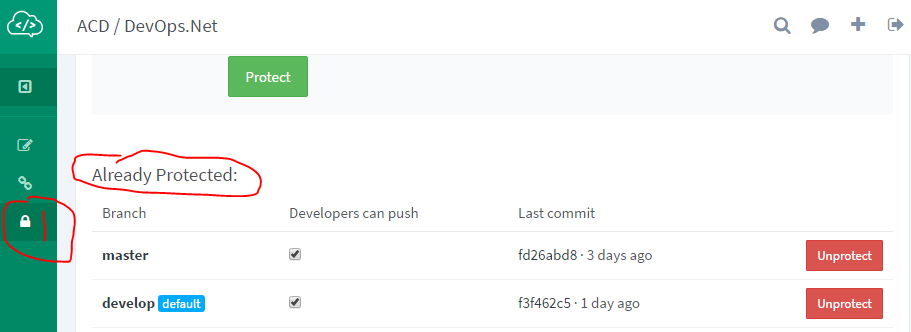
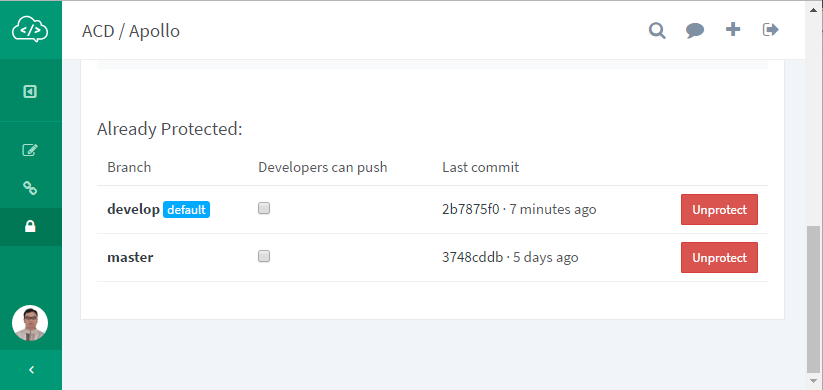
feat: update about gitlab post

diff --git a/_posts/2017-02-19-git-flow-gitlab.md b/_posts/2017-02-19-git-flow-gitlab.md
@@ -141,14 +141,72 @@ Footer 部分只用于两种情况:
 
 # 使用GitLab进行团队内Code Review
 
-Code Review的工具很多，Facebook非常有名的Phabricator已经开源。对于经常玩GitHub的人，应该很喜欢GitHub的PR功能，很多公司使用GitLab或者Gogs搭建自家的Git服务，GitLab的Merge Request功能同样可以用于团队内Code Review。如果团队内部需要强制进行Code Review, 那么拥有GitLab管理权限的开发人员，可以把Repo设置成只有develop和master分支，并把develop，master分支都保护起来。
+Code Review的工具很多，Facebook非常有名的Phabricator已经开源。对于经常玩GitHub的人，应该很喜欢GitHub的PR功能，很多公司使用GitLab或者Gogs搭建自家的Git服务，GitLab的Merge Request功能同样可以用于团队内Code Review。
+
+## Branches Protection Setting
+
+如果团队内部需要强制进行Code Review, 那么拥有GitLab管理权限的开发人员，可以把Repo设置成只有develop和master分支，并把develop，master分支都保护起来，不允许任何开发人员直接*push*到这些分支，开发人员只能把Repo **FORK**成自己的Repo。
+
+**Your project > Setting > Protected Branches**
 
 ![gitlab_protect](/images/gitlab_protect.PNG)
 
+## 创建Merge Request
 协作开发的同事，只能通过把Repo **FORK** 成自己的Repo，之后从自己Repo clone到本地，然后使用Git Flow开发，一旦开发到一个需要Review的点，通过**Merge Request**向主Repo请求合并
 
 ![gitlab_new_pr](/images/gitlab_new_pr.PNG)
 
-一旦Merge Request创建成功之后，主Repo拥有Code Review权限的人就会收到通知，Code Review的时候， 打开**Open**的Merge Request，会看到Commits， Changes，打开Changes，可以提交自己的Review建议，被Review的人继续根据这些建议，在自己的Repo里修改，修改好之后提交，这时候会在自己的Repo里及主Repo的**Open** Merge Request里看到更改，继续Review流程即可，直到Merge Request被合并，如下图：
+## Code Review
+一旦Merge Request创建成功之后，主Repo拥有Code Review权限的人就会收到通知，Code Review的时候， 打开**Open**的Merge Request，会看到Commits， Changes，打开Changes，可以提交自己的Review建议，被Review的人继续根据这些建议，在自己的Repo里修改，修改好之后提交，这时会在自己的Repo里及主Repo的**Open** Merge Request里看到相应更改，因此可以继续Review流程，直到Merge Request被合并，如下图：
 
 ![gitlab_pr_rv](/images/gitlab_pr_rv.PNG)
+
+## Syncing a FORK
+
+因为团队的Repo是多人协作开发的，也就是说，团队的主Repo会被多个开发人员Fork，当每个协作开发的开发人员对团队的主Repo请求Merge Request之后，负责进行Code Review的同事进行Review，完成代码Review之后会合并到主Repo。这时，每个Fork的Repo需要同主Repo进行同步才能拿到最新代码，具体操作步骤如下：
+
+1. 查看本地Repo是否设置了upstream；
+
+```cmd
+D:\repos\Apollo>git remote -v
+origin  http://git.code.oa.com/yingtingxu/Apollo.git (fetch)
+origin  http://git.code.oa.com/yingtingxu/Apollo.git (push)
+```
+
+2. 如果没有设置，则进行设置
+
+```cmd
+D:\repos\Apollo>git remote add upstream http://git.code.oa.com/ACD/Apollo.git
+
+D:\repos\Apollo>git remote -v
+origin  http://git.code.oa.com/yingtingxu/Apollo.git (fetch)
+origin  http://git.code.oa.com/yingtingxu/Apollo.git (push)
+upstream        http://git.code.oa.com/ACD/Apollo.git (fetch)
+upstream        http://git.code.oa.com/ACD/Apollo.git (push)
+```
+
+3. 获取主Repo的更新
+
+```cmd
+D:\repos\Apollo>git fetch upstream
+remote: Counting objects: 9, done
+remote: Finding sources: 100% (5/5)
+remote: Getting sizes: 100% (6/6)
+remote: Total 5 (delta 0), reused 5 (delta 0)
+Unpacking objects: 100% (5/5), done.
+From http://git.code.oa.com/ACD/Apollo
+ * [new branch]      develop    -> upstream/develop
+ * [new branch]      master     -> upstream/master
+```
+
+4. 合并更新，以合并develop为例
+
+```cmd
+D:\repos\Apollo>git checkout develop
+
+D:\repos\Apollo>git merge upstream/develop
+Updating e0d7ffe..2b7875f
+Fast-forward
+ version.props | 2 +-
+ 1 file changed, 1 insertion(+), 1 deletion(-)
+```
